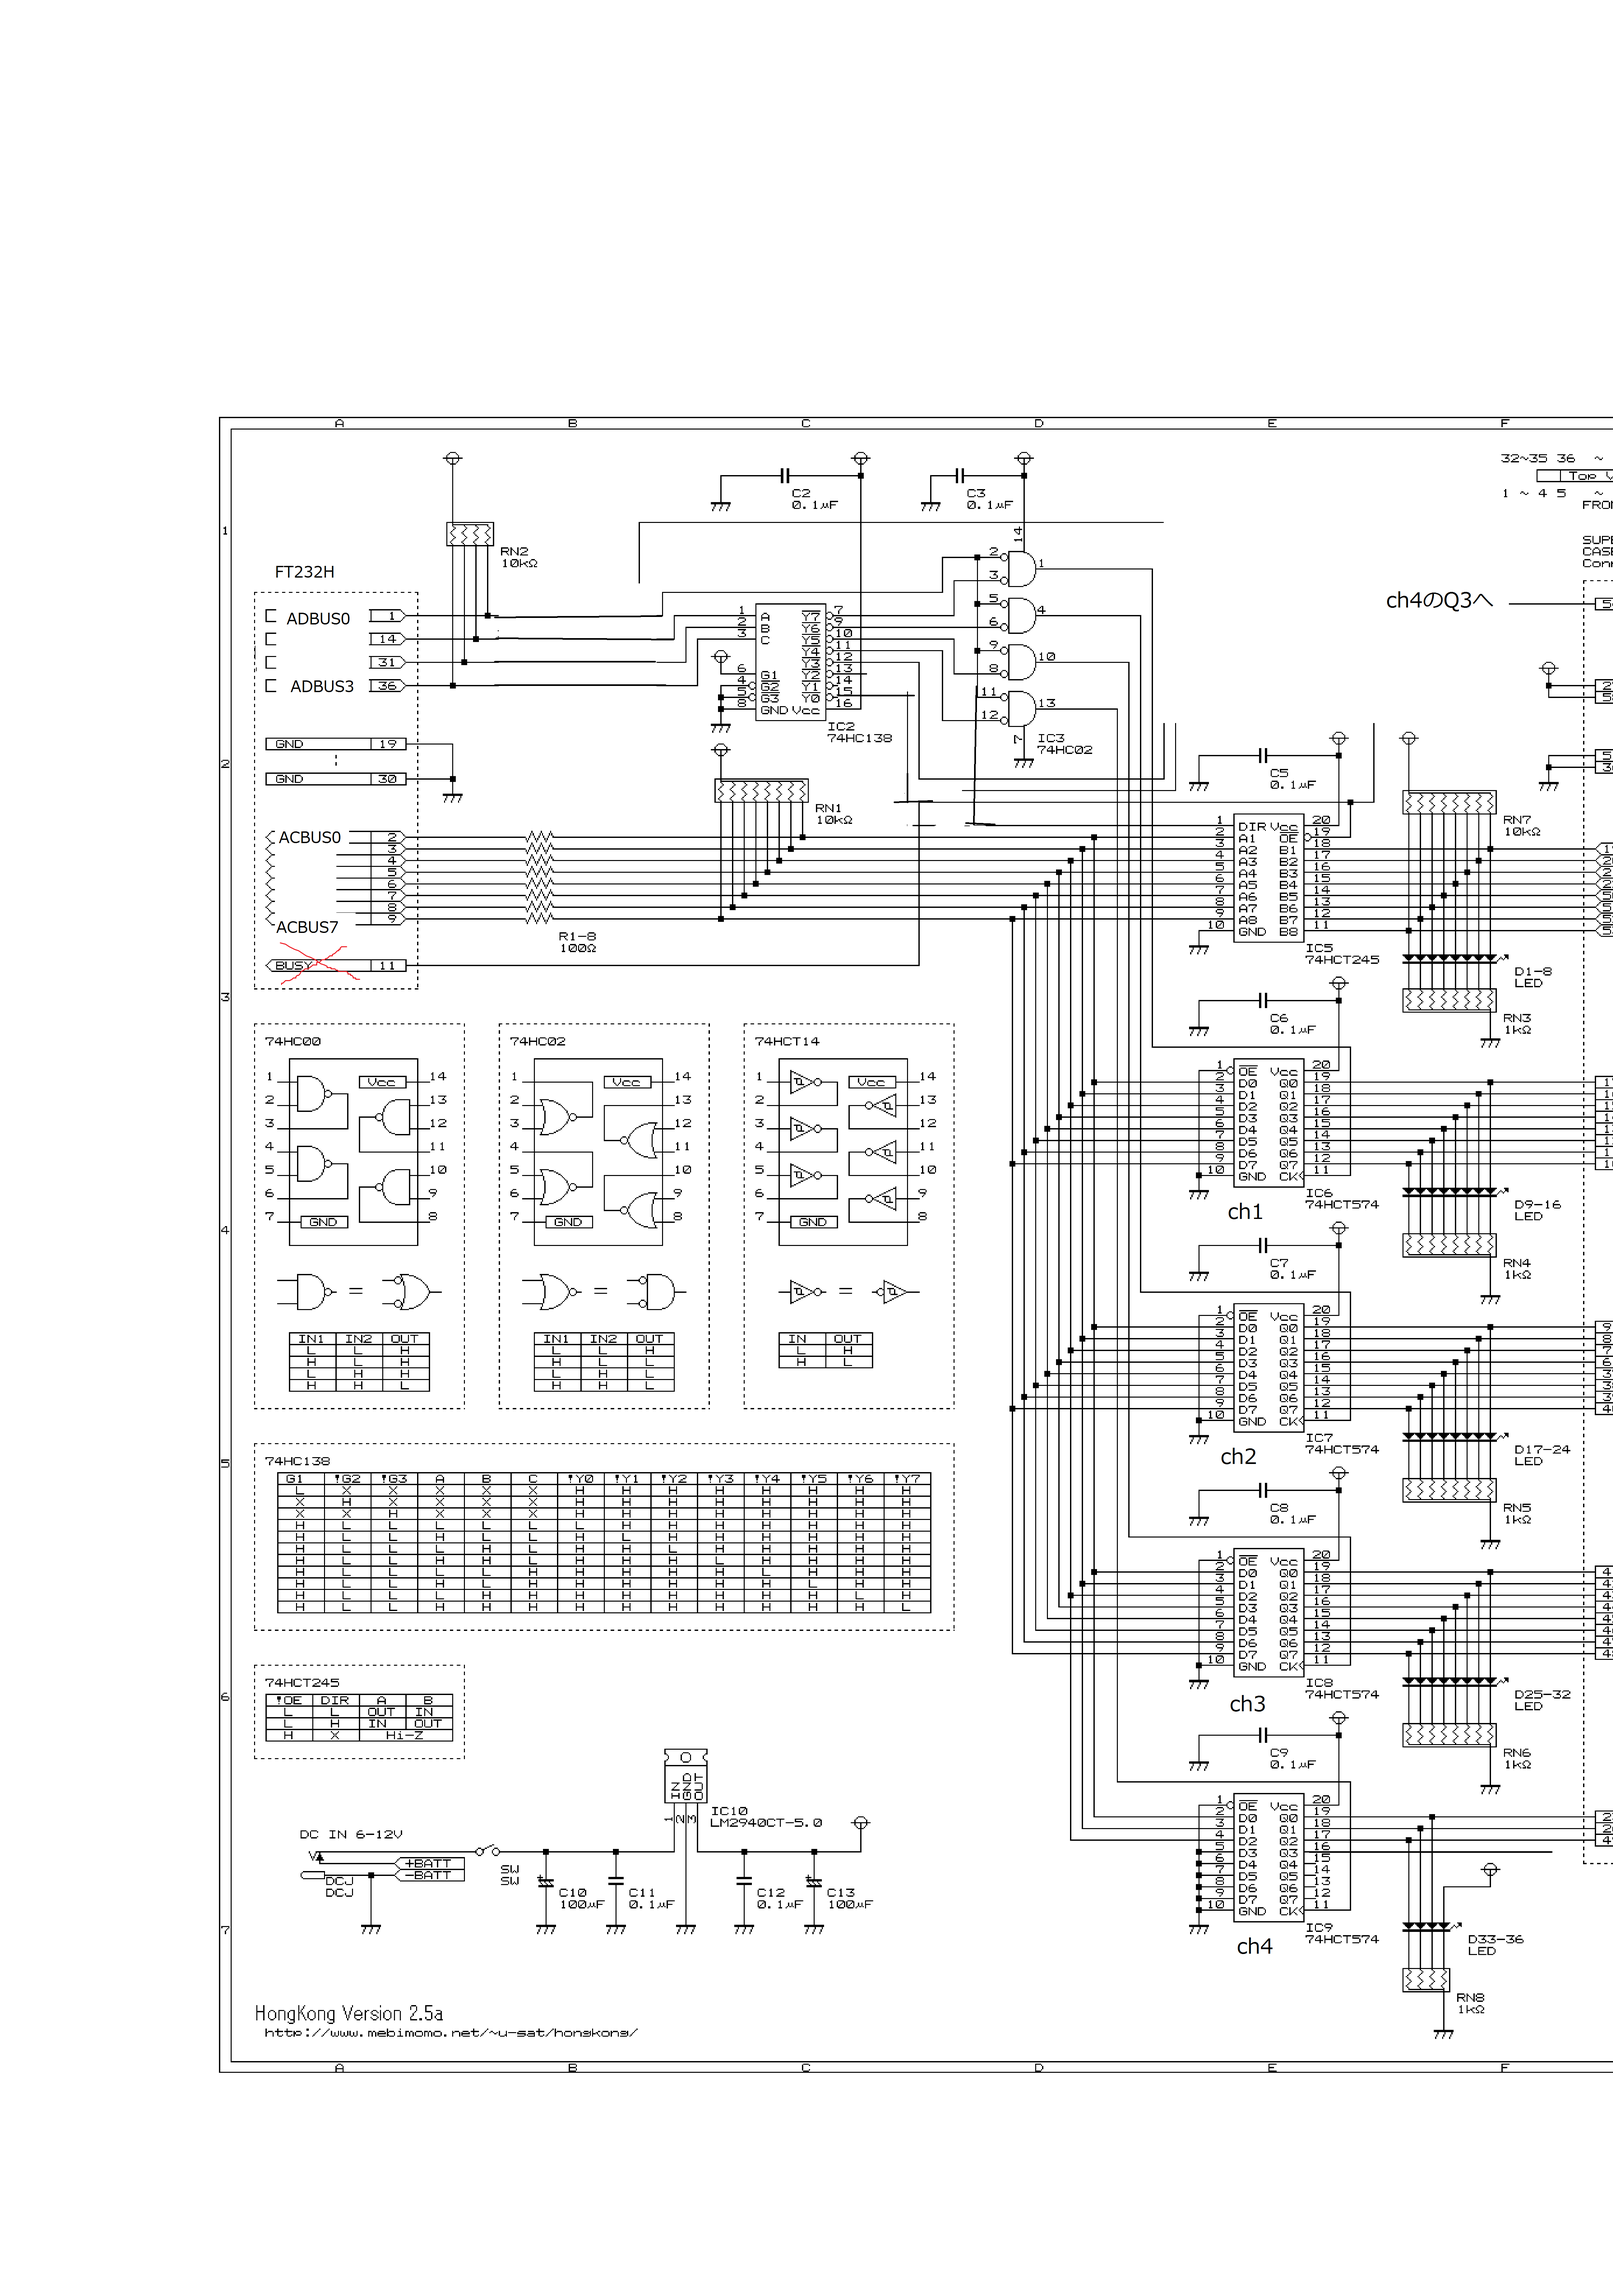
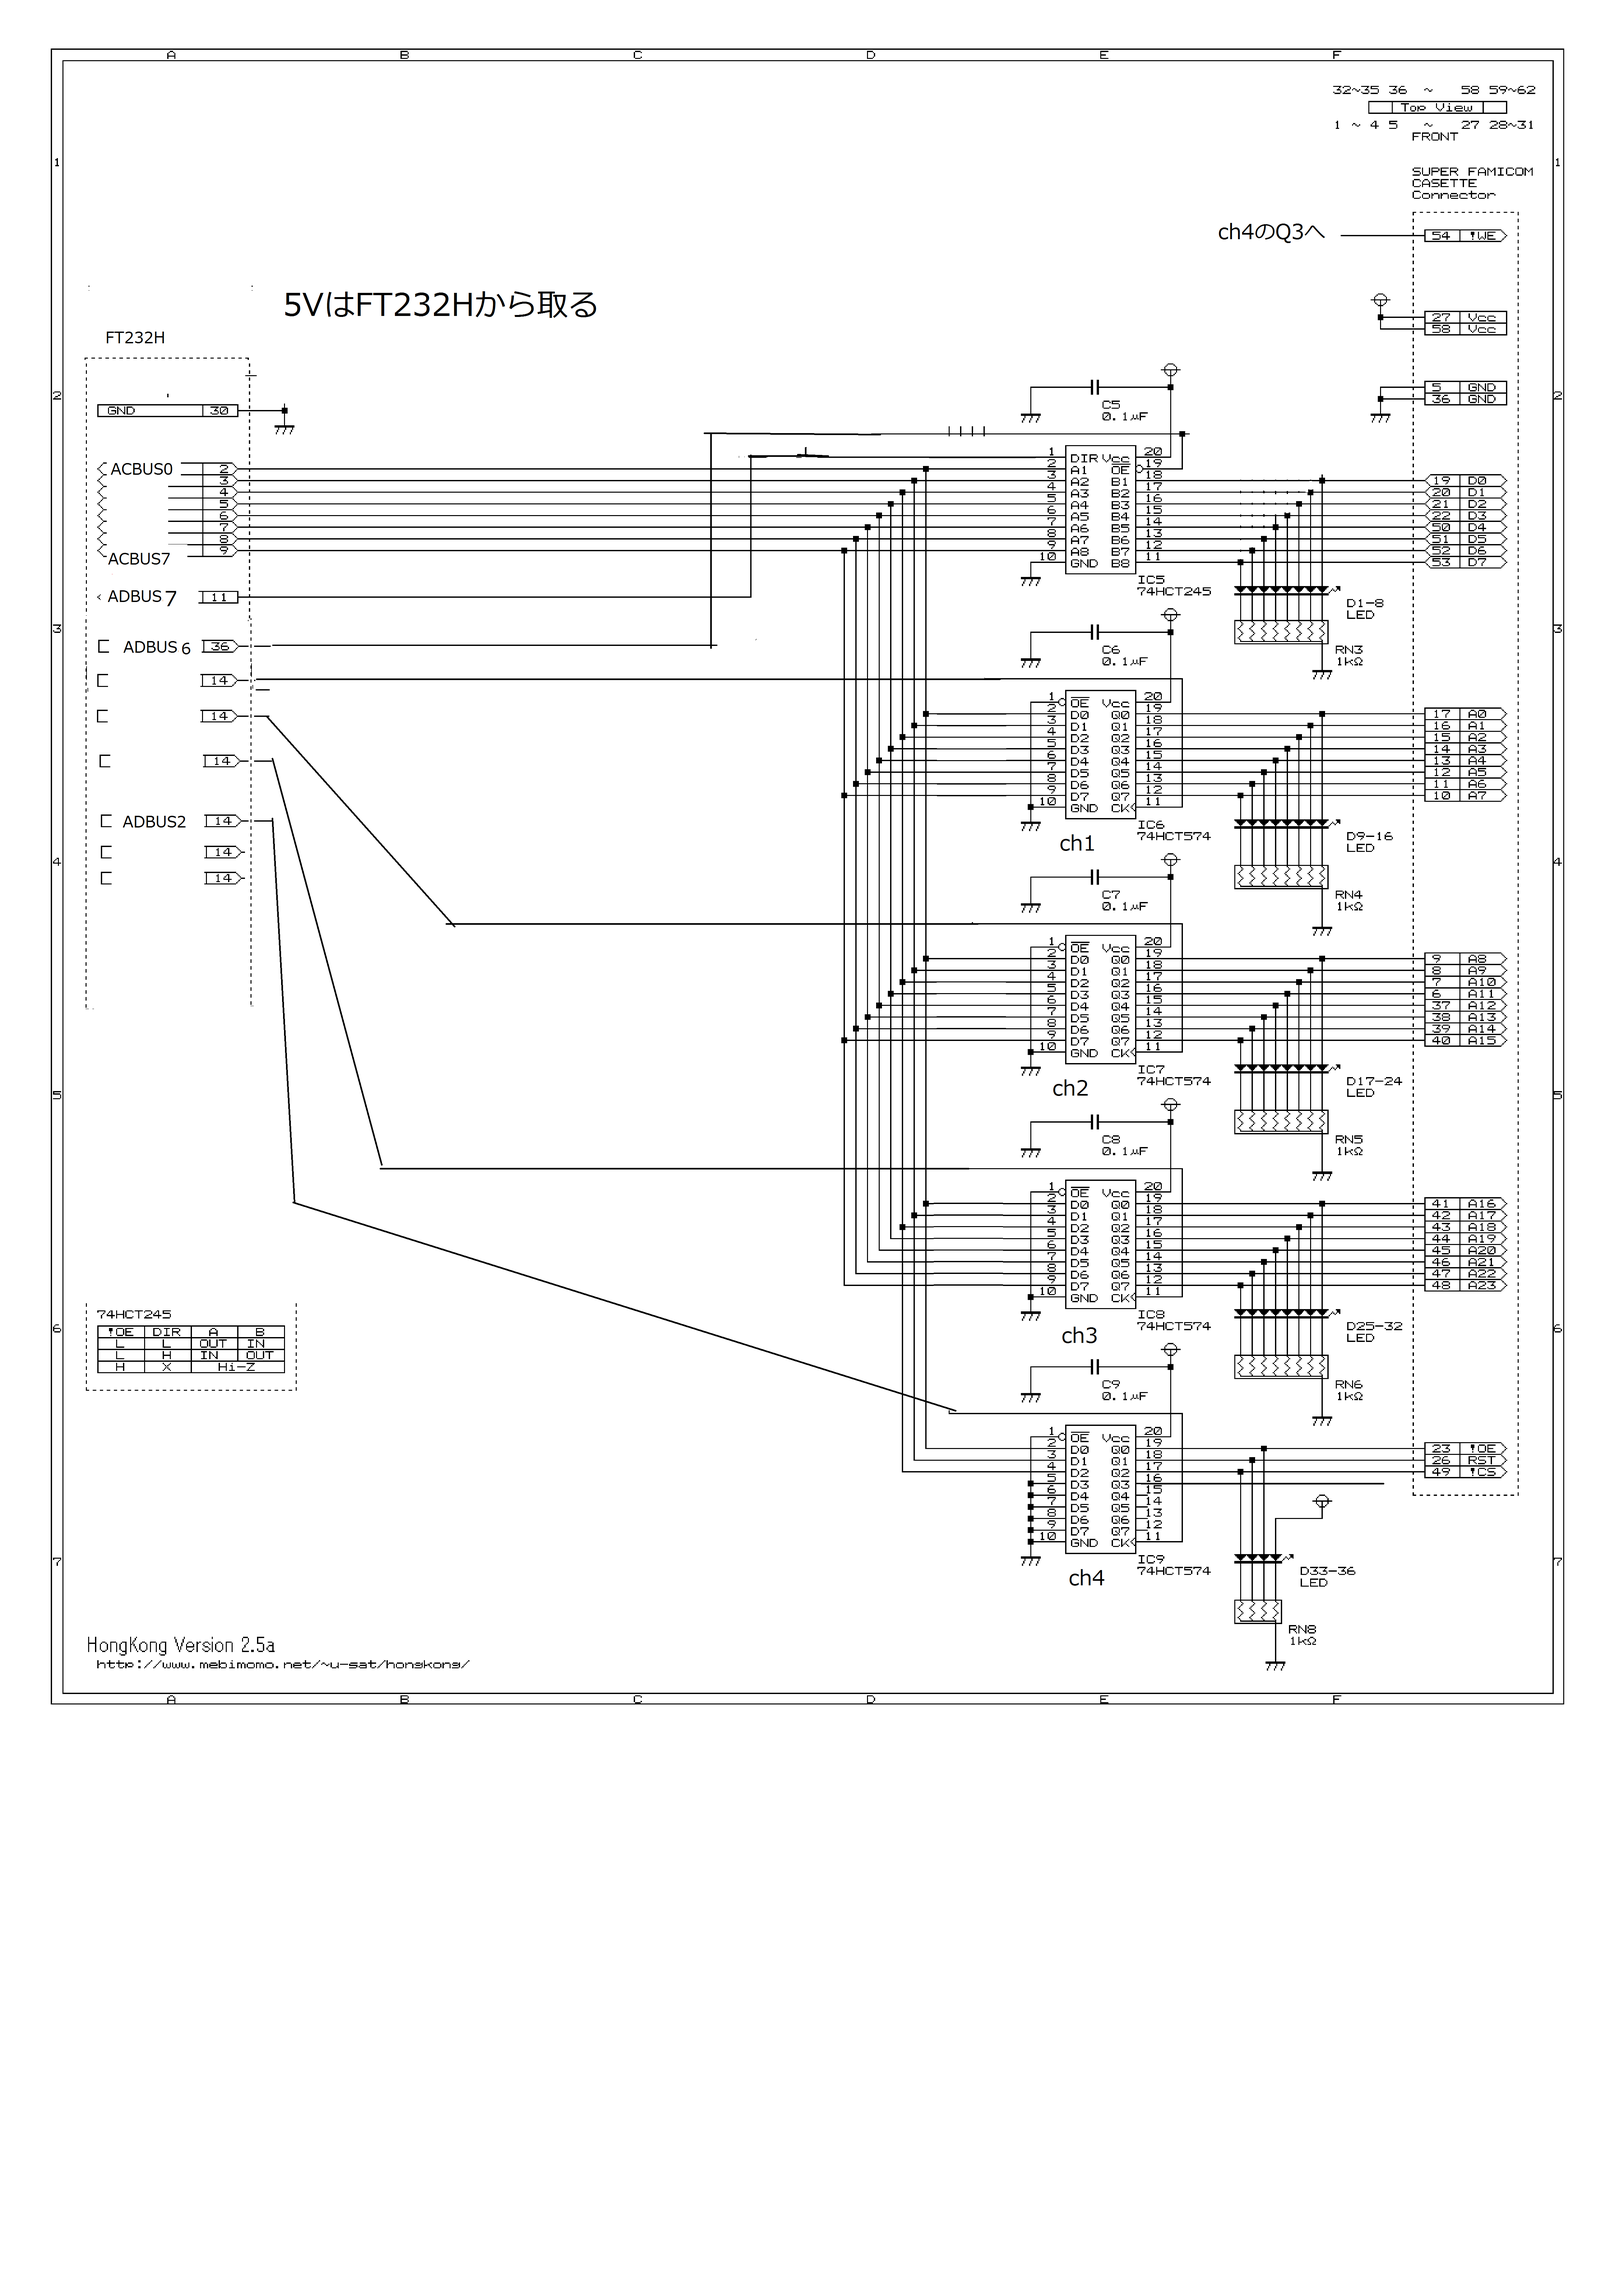
回路簡略化、それに伴うコード修正
write_sub_4bit()系関数を廃止、write_sub_8bit()系関数に変更

diff --git a/src/lowlevel_io.cpp b/src/lowlevel_io.cpp
@@ -114,15 +114,10 @@ lowlevel_IO_D2XX::~lowlevel_IO_D2XX() {
 }
 
 /*******IO operetions****/
-void lowlevel_IO_D2XX::write_sub_4bit(unsigned char data) {
-    
-    return write_sub_8bit(data & 0x0F);
-    //7 6 5 4 3 2 1 0  <-ADBUS = data
-    //3 2 1 0          <-GPIOL
 
-}
 
 void lowlevel_IO_D2XX::write_sub_8bit(unsigned char data) {
+    //7 6 5 4 3 2 1 0  <-ADBUS = data
     unsigned char buf[] = {
         0x80,
         data,
@@ -164,31 +159,24 @@ unsigned char lowlevel_IO_D2XX::read() {
 
 /*******IO operetions****/
 
-int lowlevel_IO_simulator::sub4bit_to_ch(unsigned char sub4bit) {
-    //GOIOL1..3 are the ch select bit.
-    //See HongKong_FT232R electrical diagram and 74HC138 ligic table.
-
-    //HongKong_FT232R の回路図と74HC138の論理表を参照
-
-    sub4bit = sub4bit & 0x0F;
-
-    if (sub4bit != 0) {
-        return (8 -
-                (sub4bit >> 1)
-                );
 
 
-    }
-    return 0;
-}
-
-void lowlevel_IO_simulator::write_sub_4bit(unsigned char data) {
-	//data is current sub4bit.
-    int ch = sub4bit_to_ch(data);
-    if (sub4bit_to_ch(_prev_sub4bit) == ch && (_prev_sub4bit & 1) == 1 && (data & 1) ==0)//チャンネルが前と同じで、1bit目が1から0に変わってたら永続化する
-    	_ch_data[ch] = _ch_data_not_persisted;
+void lowlevel_IO_simulator::write_sub_8bit(unsigned char data) {
     
-    _prev_sub4bit = data;
+    
+    //sub_8bit: ch0.dir, ch0.!oe, ch1.ck, ch2.ck, ...  ch7.ck
+    unsigned char &current_sub_8bit = data;//data is current sub8bit.
+    unsigned char prev_sub8bit = _sub8bit;
+    //0->1になってるビットのチャンネルを永続化する
+    unsigned char ck_keep_specified_bits = (~prev_sub8bit) & current_sub_8bit;
+    
+    for(int ch = 1; ch <= 4; ch++){
+        if(ck_keep_specified_bits & (0b01000000>>ch) ){
+            _ch_data[ch] = _ch_data_not_persisted;
+        }
+    }
+    
+    _sub8bit = current_sub_8bit;
 }
 
 void lowlevel_IO_simulator::write(unsigned char data) {
@@ -203,7 +191,15 @@ unsigned char lowlevel_IO_simulator::read() {
     unsigned int addr = 0;
     unsigned char buf;
     // if OE? CE? LoROM?
-
+    
+    //sub_8bit: ch0.dir, ch0.!oe, ch1.ck, ch2.ck, ...  ch7.ck
+    if( (_sub8bit & 0b01000000) != 0 ){//ch0.!oe !=0 so ch0 is not enable
+        return 0;
+    }
+    
+    if( (_sub8bit & 0b10000000) != 0 ){//ch0.dir !=0 so ch0 is output mode
+        throw string("direction od ch0 is output, but you read ch0!");
+    }
     //A0...A20
     addr += _ch_data[1] << 0 * 8;
     addr += _ch_data[2] << 1 * 8;

diff --git a/src/ch.cpp b/src/ch.cpp
@@ -30,42 +30,26 @@ this Program grant you additional permission to convey the resulting work.
 #include "ch.h"
 #include "lowlevel_io.h"
 
-unsigned char channel::ch_to_sub_4bit(int ch){
-    //GOIOL1..3 are the ch select bit.
-    //See HongKong_FT232R electrical diagram and 74HC138 ligic table.
-    
-    //HongKong_FT232R の回路図と74HC138の論理表を参照
-/*
-	unsigned char c;//cbus_4bit_data;
-	switch(ch){
-	case 1:
-		c = 7<<1;
-		break;
-	case 2:
-		c=6<<1
-		break;
-	//THIS IS FOOL!
-*/
-	if(ch>0){
-		return (8- ch)<<1;//THIS IS COOL!
-	}else{//ch==0
-		return 0;
-	}
-}
-
 
 
 
 void channel::out(int ch, unsigned char data){
-	unsigned char _ch = ch_to_sub_4bit(ch) & 0xFE;//1110
-	lowIO->write_sub_4bit(_ch | 1);//ck=Low. select ch.
-	lowIO->write(data);//set output data
-	lowIO->write_sub_4bit(_ch | 0 );//ck=Hi. select ch and output data persistently.
-		//cbus0 bit is connected to CK bit of 74HCT574 on HongKong_FT232R.
+  unsigned char IC_select_bits=0b01000000;//dir,!oe, ck, ck, ...
+  if ( ch == 0 ){
+    IC_select_bits = 0b10000000;//dir=output, !oe=enable
+  }else{
+    IC_select_bits = 0b01000000 | IC_select_bits>>ch;
+    //!oe=disable, ch's ck=Hi. select ch and keep output data on ch channel IC.
+  }
+	  
+  lowIO->write_sub_8bit(0b01000000);//!oe=disable, ck=Low
+  lowIO->write(data);//set output data
+  lowIO->write_sub_8bit( IC_select_bits );//if ch>=1: keep data;if ch==0,simply output
+  
+
 }
 
 unsigned char channel::in(){
-	unsigned char _ch = ch_to_sub_4bit(0) & 0xFE;//1110
-	lowIO->write_sub_4bit(_ch | 0);//select ch0 and ch0 direction L (B->A). see74HCT245.
+	lowIO->write_sub_8bit(0b00000000);//select ch0 and ch0 direction L (B->A). see74HCT245.
 	return lowIO->read();
 }

diff --git a/src/lowlevel_io.h b/src/lowlevel_io.h
@@ -17,7 +17,7 @@ using namespace std;
 class lowlevel_IO
 {
 public:
-	virtual void write_sub_4bit(unsigned char data) = 0;
+	virtual void write_sub_8bit(unsigned char data) = 0;
 	virtual void write(unsigned char data) = 0;
 	virtual unsigned char read() = 0;
 
@@ -34,7 +34,7 @@ class DUMMY_lowIO : public lowlevel_IO
 public:
 
 	void
-	write_sub_4bit(unsigned char data)
+	write_sub_8bit(unsigned char data)
 	{
 	};
 
@@ -54,7 +54,7 @@ class DUMMY_EXCEPTION_lowIO : public lowlevel_IO
 {
 
 	void
-	write_sub_4bit(unsigned char data)
+	write_sub_8bit(unsigned char data)
 	{
 	};
 
@@ -83,17 +83,16 @@ public:
 class lowlevel_IO_simulator : public lowlevel_IO
 {
 private:
-	int _prev_sub4bit;
+	int _sub8bit;
 	unsigned char _ch_data_not_persisted;
 	unsigned char _ch_data[8];
-	int sub4bit_to_ch(unsigned char sub4bit);
 	std::fstream ROM_img;
 	int open_ROM_Image_File();
 	int setup_lowlevel_IO_func_ptr();
 	int close_ROM_Image_File();
 
 public:
-	void write_sub_4bit(unsigned char data);
+	void write_sub_8bit(unsigned char data);
 	void write(unsigned char data);
 	unsigned char read();
 
@@ -131,13 +130,11 @@ public:
 	virtual ~lowlevel_IO_D2XX();
 
 
-	void write_sub_4bit(unsigned char data);
+	void write_sub_8bit(unsigned char data);
 
 	void write(unsigned char data);
 
 	unsigned char read();
-
-	void write_sub_8bit(unsigned char data) ;
 		
 };
 

diff --git a/src/fastio.h b/src/fastio.h
@@ -227,10 +227,6 @@ public:
   virtual ~lowlevel_IO_FastIO() = default;
 
 
-	void write_sub_4bit(unsigned char data){
-	  Async_write_sub_4bit(data);
-	}
-
 	void write(unsigned char data){
 	  Async_write(data);
 	}
@@ -241,7 +237,7 @@ public:
 	  return static_cast<unsigned char>(Async_read() );
 	}
 
-	void write_sub_8bit(unsigned char data) //for debug.
+	void write_sub_8bit(unsigned char data) 
 	{
 	  Async_write_sub_8bit(data);
 	}
@@ -253,8 +249,6 @@ public:
 	
 
 	unsigned int Async_flush();
-
-	void Async_write_sub_4bit(unsigned char data);
 
 	void Async_write(unsigned char data);
 

diff --git a/src/libHongKong.h b/src/libHongKong.h
@@ -96,8 +96,8 @@ public:
     HongKongBase(HongKongBase &&) = default;//fixme!!!
     HongKongBase& operator=(HongKongBase &&) = default;//fixme!!!
 
-    HongKongBase(HongKongBase &) = delete;
-    HongKongBase& operator=(HongKongBase &) = delete;
+    HongKongBase(HongKongBase &) = default;
+    HongKongBase& operator=(HongKongBase &) = default;
 
     virtual
     ~HongKongBase() = default;

diff --git a/src/fastio.cpp b/src/fastio.cpp
@@ -97,9 +97,6 @@ void lowlevel_IO_FastIO::Async_write_sub_8bit(unsigned char uc){
   return ;
 }
 
-void lowlevel_IO_FastIO::Async_write_sub_4bit(unsigned char uc){
-  lowlevel_IO_FastIO::Async_write_sub_8bit(uc && 0b00001111);
-}
 
 void lowlevel_IO_FastIO::Async_write(unsigned char uc){
   unsigned char buf[] = {0x82,uc,0xFF};

diff --git a/src/ch.h b/src/ch.h
@@ -34,7 +34,6 @@ this Program grant you additional permission to convey the resulting work.
 class channel {
     std::unique_ptr<lowlevel_IO> lowIO;
     
-    static unsigned char ch_to_sub_4bit(int ch);
 
 public:
     channel(lowlevel_IO * lio) : lowIO(lio)
